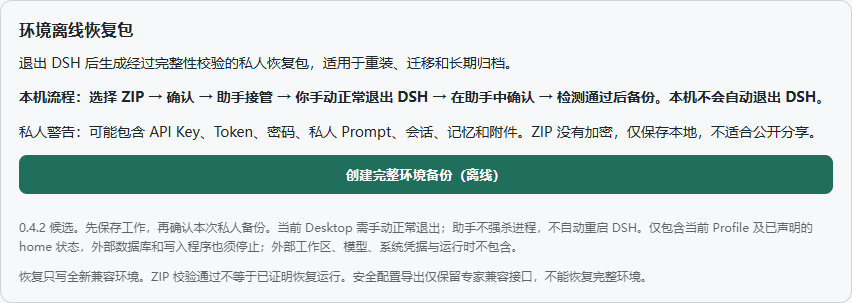
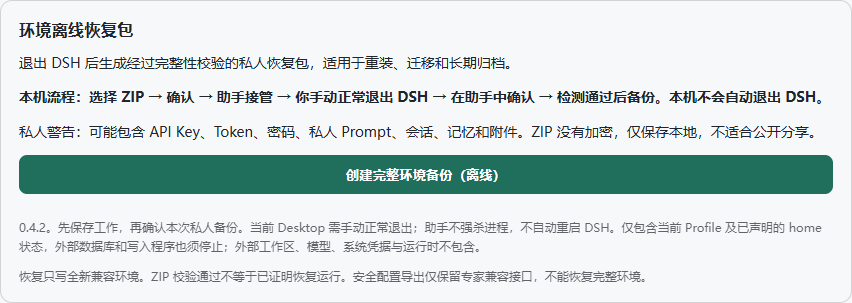
Finalize 0.4.2 release documentation and label

Changed region(s): [[0.0, 0.7129, 0.9765, 0.8317]]

diff --git a/client.js b/client.js
@@ -36,7 +36,7 @@ window.__ModuleLoader__.load({
         h('button',{type:'button',disabled:busy,onClick:()=>go(false),style:{padding:'11px 18px',fontWeight:600,borderRadius:8,background:'#1f6f5c',color:'white',border:0,cursor:busy?'wait':'pointer'}},busy?'正在准备…':'创建完整环境备份（离线）'),
         h('div',{role:'status','aria-live':'polite',style:{whiteSpace:'pre-wrap',overflowWrap:'anywhere',lineHeight:1.6}},message),
         fallback?h('div',null,h('label',null,'原生窗口不可用时的完整 ZIP 路径：',h('input',{value:target,disabled:busy,onChange:e=>setTarget(e.target.value),placeholder:'D:\\Backups\\private.zip',style:{width:'100%',boxSizing:'border-box'}})),h('button',{disabled:busy||!target.trim(),onClick:()=>go(true)},'使用此路径并继续确认')):null,
-        h('p',{style:{margin:0,fontSize:12,opacity:.7,lineHeight:1.6}},'0.4.2 候选。先保存工作，再确认本次私人备份。当前 Desktop 需手动正常退出；助手不强杀进程，不自动重启 DSH。仅包含当前 Profile 及已声明的 home 状态，外部数据库和写入程序也须停止；外部工作区、模型、系统凭据与运行时不包含。'),
+        h('p',{style:{margin:0,fontSize:12,opacity:.7,lineHeight:1.6}},'0.4.2。先保存工作，再确认本次私人备份。当前 Desktop 需手动正常退出；助手不强杀进程，不自动重启 DSH。仅包含当前 Profile 及已声明的 home 状态，外部数据库和写入程序也须停止；外部工作区、模型、系统凭据与运行时不包含。'),
         h('p',{style:{margin:0,fontSize:12,opacity:.7}},'恢复只写全新兼容环境。ZIP 校验通过不等于已证明恢复运行。安全配置导出仅保留专家兼容接口，不能恢复完整环境。')
       );
     }

diff --git a/RELEASE_NOTES.md b/RELEASE_NOTES.md
@@ -1,21 +1,25 @@
-# v0.4.1
+# Environment Packer v0.4.2
 
 ## 中文
 
-Environment Packer 首个审查后的公开源码版本。完整私人 ZIP 与范围很小的安全配置导出分开；私人包可能含凭据、Prompt、会话与记忆，不加密，不适合分享。安全导出不能恢复完整环境。
+以完整离线冷备份为主要流程：选择 ZIP、私人确认、独立助手接管、**用户从菜单/托盘正常退出 DSH**，再点击“我已正常退出，检查后继续”。人工确认不能绕过进程检查；未完全退出、检测不明或超时均不开始。助手显示阶段、活动条和文件数，不自动退出或重启 DSH。
 
-0.4.1 修正无进度回调时返回与落盘恢复计数为 0 的问题，未改变 ZIP 格式、恢复范围、校验或提交逻辑。原生 Save As 由用户在实际 Windows 桌面完成取消、Unicode 路径、已有文件拒绝和安全导出；原生代码未为自动化改写。
+普通热备份 GUI 已移除，POST /create-full 返回 410。保留专家安全导出（不能恢复环境）和离线 CLI。Windows 载荷读锁、持续监测、完整清单/CRC/SHA-256 校验与无覆盖提交保护本地 ZIP。
 
-恢复只写新 DSH_HOME。数据库一致性需停机冷备份。旧 0.3.4 目录/声明格式不兼容。实测 Windows x64 / DSH Desktop 0.2.1-rc.2 / Electron Node 24.21.0 / ABI 149；未验证跨机、真实私人数据库和全部外部依赖。
+私人 ZIP 可能包含 API Key、Token、密码、私人 Prompt、会话、记忆和附件；**不加密，不适合公开分享，不自动上传**。只包含当前 Profile 和声明的 home 范围；外部运行时/工作区/模型、系统凭据及其他 Profile 不完整迁移。GUI 需标准 DSH_HOME/profiles/<name>。恢复只写全新兼容 home。
 
-本公开 tgz 增加许可与公开说明，SHA 与早期未公开的私人候选不同；功能资源相同。请核对本 Release 的 SHA-256。第三方 js-yaml MIT 保留，维护者授权范围和历史来源限制见仓库说明。不发布 npm 或 dsh-market。
+保留 dsh-private-recovery/2，兼容 0.4.0/0.4.1 私人包；0.3.4 旧格式不兼容。已验证 Windows 11 x64 10.0.26300、DSH Desktop 0.2.1-rc.2、Electron Node 24.21.0 / ABI 149。单文件 128 MiB、约 2 GiB 载荷、59,999 项限制。跨机器/真实私人数据库业务恢复、全部外部依赖/杀软/DPI/网络盘未普遍验证。ZIP 校验不等于业务恢复，哈希不是签名。硬退出/断电可能留下私有残留或未确认结果。
+
+发布包更新文档和“候选”显示标识，运行流程及助手/恢复核心与提交 4a797b11c070b53f7eadc1ccbea032155bce65ad 相同。其字节与旧 555e90… 候选不同，请使用本 Release 附带的完整校验值。MIT 授权范围、js-yaml 原作者与许可、PROVENANCE 早期来源披露保留。不发布 npm，不提交 dsh-market。
 
 ## English
 
-First reviewed public snapshot. Full private backup and conservative safe export remain distinct. Private ZIPs may contain credentials, prompts, sessions and memory: they are not encrypted or suitable for public sharing. Safe export cannot restore an environment.
+Complete offline cold backup is now the main workflow: choose a new ZIP, approve private scope, wait for assistant handoff, **manually quit DSH through its menu/tray**, then confirm in the assistant. Confirmation cannot bypass process inspection. Unknown/live writers or timeout stop the job. The independent window displays phases, an activity bar and file counts; it neither quits nor restarts DSH automatically.
 
-0.4.1 fixes callback-free restore counters and the written result report without changing extraction, verification, format or scope. Native Save As passed actual human desktop interactions; production dialog code was not rewritten for automation.
+The ordinary hot-backup GUI is removed and POST /create-full returns 410. Narrow expert safe export cannot restore an environment; the offline CLI remains. Windows source read leases, restart monitoring, manifest/CRC/payload SHA-256 verification and no-replace commit protect the archive.
 
-Restore only into a fresh home; cold backups are required for database consistency. Legacy 0.3.4 formats are incompatible. Tested on Windows x64, DSH Desktop 0.2.1-rc.2 and its Electron Node 24.21.0 / ABI 149. Another machine, real private database restoration and all external dependencies were not tested.
+Private ZIPs may contain credentials, prompts, conversations, memories and attachments. **They are unencrypted, local-only and unsuitable for public sharing.** Scope is the selected standard Profile and declared home entries, not a universal migration of external runtimes, workspaces, models or OS credentials. Restore accepts only a fresh compatible home.
 
-The public package adds licensing/documentation and differs in hash from earlier unpublished candidates while preserving functional resources. Verify this Release's checksum. js-yaml retains its MIT notice; license scope and incomplete historical provenance are documented. No npm or market publication.
+Format recovery/2 remains compatible with 0.4.0/0.4.1; legacy 0.3.4 formats are unsupported. Tested Windows 11 x64 build 10.0.26300, Desktop 0.2.1-rc.2, Electron Node 24.21.0 / ABI 149. Limits: 128 MiB/file, about 2 GiB payload, 59,999 entries. Cross-machine and real private database business restoration are not generally validated. Verification does not prove business operation, and hashes are not signatures. Hard exits can leave private residues or unconfirmed results.
+
+Release packaging updates documentation and the visible candidate label only; backup/assistant/restore behavior matches reviewed commit 4a797b1. The artifact differs from the earlier 555e90… candidate: verify this Release's checksum. Scoped MIT, original js-yaml notices and provenance disclosures remain. No npm or marketplace publication.

diff --git a/README.en.md b/README.en.md
@@ -1,8 +1,8 @@
-# DSH Environment Packer 0.4.2 candidate
+# DSH Environment Packer 0.4.2
 
 [中文](README.md) · [Compatibility](docs/COMPATIBILITY.md) · [Restore](docs/RESTORE.md) · [Provenance](docs/PROVENANCE.md)
 
-A local offline cold-backup tool for infrequent migration, reinstallation and disaster recovery. This is a review candidate, not a published 0.4.2 Release. Production 0.4.1 remains unchanged. It does not promise universal lossless migration.
+A local offline cold-backup tool for infrequent migration, reinstallation and disaster recovery. Download the tgz and SHA-256 file from [v0.4.2](https://github.com/379385796-sys/dsh-environment-packer/releases/tag/v0.4.2), verify it, then use the DSH local plugin installer. It does not promise universal lossless migration.
 
 ## Desktop workflow
 
@@ -16,7 +16,7 @@ The independent window displays waiting, verified exit, scanning, writing, verif
 
 **Private ZIPs can contain API keys, tokens, passwords, private prompts, conversations, memories and attachments. ZIPs are not encrypted and must not be shared publicly.** Local only; no cloud upload. Windows private ACLs are not encryption.
 
-Includes the selected Profile's regular files, plugins, installed dependencies and local packages; package-root installation links are materialized, other/cyclic links fail. Declared home scope: storages, sessions, attachments, memory, skills, AGENTS.md and .credentials.yaml/.yml. Other Profiles, undeclared home entries, external workspaces/models/programs, runtime, OS/browser credentials and original filesystem metadata are excluded. Stop external databases and other writers; external state is not guaranteed to migrate.
+The GUI requires a Profile under the selected DSH_HOME/profiles/<name>; nonstandard external Profiles are refused. Includes the selected Profile's regular files, plugins, installed dependencies and local packages; package-root installation links are materialized, other/cyclic links fail. Declared home scope: storages, sessions, attachments, memory, skills, AGENTS.md and .credentials.yaml/.yml. Other Profiles, undeclared home entries, external workspaces/models/programs, runtime, OS/browser credentials and original filesystem metadata are excluded. Stop external databases and other writers; external state is not guaranteed to migrate.
 
 The assistant conservatively waits for all instances using the Desktop runtime, tracked descendants, processes referencing the source home and known database processes. Private task parameters and payload path requests remain under a protected task directory. Ordinary status contains phases, counts, booleans and controlled error codes. Historical task records under DSH_HOME/.packer-cold are excluded from backups.
 
@@ -30,4 +30,4 @@ dsh-private-recovery/2 is unchanged: 0.4.0/0.4.1 private archives remain compati
 
 Ordinary errors/cooperative cancellation clean the current staging. Hard exits or power loss can leave private temporary files or locks; an atomic ZIP commit can precede its success record. Treat any unacknowledged output as unconfirmed. Preserve and inspect residues; no broad automatic deletion.
 
-Build and isolated candidate installation: [instructions](docs/BUILD-TEST.md). Production upgrade and GitHub Release require separate approval. No npm publication. The scoped MIT grant, js-yaml author/license and historical provenance disclosure remain intact. New assistant sources add no bundled runtime, binary or npm dependency.
+Build and isolated installation: [instructions](docs/BUILD-TEST.md). Before production upgrade, quit normally, back up the plugin and preserve existing Junctions. Never overwrite an entire Profile. No npm publication. The scoped MIT grant, js-yaml author/license and historical provenance disclosure remain intact. New assistant sources add no bundled runtime, binary or npm dependency.

diff --git a/README.md b/README.md
@@ -1,8 +1,8 @@
-# DSH Environment Packer 0.4.2 候选
+# DSH Environment Packer 0.4.2
 
 [English](README.en.md) · [兼容范围](docs/COMPATIBILITY.md) · [恢复](docs/RESTORE.md) · [来源与许可](docs/PROVENANCE.md)
 
-面向重装、迁移和灾难恢复的低频本地离线冷备份工具。当前为供审阅的候选，尚未升级正式 0.4.1，也未发布 0.4.2 Release。不是所有 DSH 环境通用的一键无损迁移器。
+面向重装、迁移和灾难恢复的低频本地离线冷备份工具。从 [v0.4.2 Release](https://github.com/379385796-sys/dsh-environment-packer/releases/tag/v0.4.2) 下载 tgz 和 SHA-256 文件，核对后通过 DSH 本地插件安装功能安装。不是所有 DSH 环境通用的一键无损迁移器。
 
 ## 创建完整环境备份（离线）
 
@@ -22,7 +22,7 @@
 
 **ZIP 可能包含 API Key、Token、密码、私人 Prompt、会话、记忆和附件。ZIP 没有加密，仅本地保存，不适合公开分享。** 不上传云端；不要将 ZIP、配置或任务私有记录附在 issue。
 
-范围：当前 Profile 全部常规文件和目录，包括插件、依赖和本地 tgz；安装包根链接物化，循环或数据链接安全失败。另包含所选 DSH_HOME 的 storages、sessions、attachments、memory、skills、AGENTS.md、.credentials.yaml/.yml（存在时）。清单记录实际范围、逐文件哈希及排除。
+GUI 要求 Profile 位于所选 DSH_HOME/profiles/<name>，非标准外置 Profile 会安全拒绝。范围：当前 Profile 全部常规文件和目录，包括插件、依赖和本地 tgz；安装包根链接物化，循环或数据链接安全失败。另包含所选 DSH_HOME 的 storages、sessions、attachments、memory、skills、AGENTS.md、.credentials.yaml/.yml（存在时）。清单记录实际范围、逐文件哈希及排除。
 
 不包含其他 Profile、未声明的 home 项、外部工作区/模型/程序、系统或浏览器凭据、运行时、原 ACL/所有者/ADS。外部数据库和其他写入程序须正常停止；不保证外部状态被迁移。助手会保守等待同一 Desktop 运行时的所有实例、已跟踪后代、引用源 home 的进程及已知数据库进程。文件读锁失败就停止。
 
@@ -44,8 +44,8 @@ Windows 私人 ACL 仅限当前用户/SYSTEM；这不是加密。任务参数、
 - 第二台机器/VM、真实私人数据库业务恢复、网络盘/OneDrive、所有杀软/DPI/外部依赖未验证。哈希不是签名。
 - 普通失败/协作取消清理本次临时文件；强制结束、断电或系统崩溃可能留私有临时文件/任务锁，也存在 ZIP 原子提交与成功状态写入之间的短窗口。没有明确成功状态的产物一律视为未确认，先保留检查，不能当作完成备份。不会自动删除历史材料。
 
-## 构建、候选安装与许可
+## 构建、安装与许可
 
-见 [构建测试](docs/BUILD-TEST.md) 和 [升级回滚](docs/UPGRADE-ROLLBACK.md)。只安装核对 SHA-256 后的候选 tgz 到隔离测试 Profile；正式升级和 GitHub Release 需要后续明确授权。保持 private:true，不发布 npm。
+见 [构建测试](docs/BUILD-TEST.md) 和 [升级回滚](docs/UPGRADE-ROLLBACK.md)。先在隔离 Profile 验证；正式升级前正常退出 DSH、备份 Packer，并按白名单部署。不要覆盖整个 Profile。保持 private:true，不发布 npm。
 
 维护者可授权的贡献沿用 [MIT](LICENSE)；js-yaml 原作者及 MIT 保留：[第三方声明](THIRD_PARTY_NOTICES.md)。早期来源记录不完整的披露不变；新增助手没有引入 npm/二进制依赖。

diff --git a/docs/COMPATIBILITY.md b/docs/COMPATIBILITY.md
@@ -2,10 +2,10 @@
 
 Validated base: Windows 11 Pro x64 10.0.26300, DSH Desktop 0.2.1-rc.2, its Electron Node 24.21.0 / ABI 149, Windows PowerShell 5.1 / STA WinForms. Matching platform, architecture, exact DSH version, Node major and ABI are required for restoration. The package bundles no runtime and changes no execution policy globally.
 
-Current Desktop has no exposed safe plugin quit API. The candidate deliberately uses manual normal menu/tray exit plus a separate assistant confirmation and mandatory process detection. There is no force-start or forced-termination fallback. Other Desktop instances and known databases may conservatively block a task even when unrelated. Unknown writer handles fail the source read lease; external transaction state outside scope is not claimed.
+Current Desktop has no exposed safe plugin quit API. The plugin deliberately uses manual normal menu/tray exit plus a separate assistant confirmation and mandatory process detection. There is no force-start or forced-termination fallback. Other Desktop instances and known databases may conservatively block a task even when unrelated. Unknown writer handles fail the source read lease; external transaction state outside scope is not claimed.
 
-The 0.4.2 development acceptance includes human-operated actual Desktop Save As/confirmation/manual exit, an independent assistant-generated synthetic ZIP, exact hashes and a fresh-home restore followed by three synthetic plugins plus shared dependency startup/restart. Final UI confirmation additions require their own acceptance evidence; the local final report distinguishes each revision and untested item. Headless component previews are not actual desktop E2E tests.
+The 0.4.2 development acceptance includes human-operated actual Desktop Save As/confirmation/manual exit, an independent assistant-generated synthetic ZIP, exact hashes and a fresh-home restore followed by three synthetic plugins plus shared dependency startup/restart. Manual exit confirmation and process inspection are independent gates; a premature click cannot bypass live writers. Acceptance records distinguish desktop tests from component tests. Headless component previews are not actual desktop E2E tests.
 
 The format remains dsh-private-recovery/2. 0.4.0 and 0.4.1 archives remain supported, including accurate callback/no-callback restore counters. 0.3.4 legacy directories/declaration archives remain incompatible.
 
-Not validated: another physical machine/VM, real private database business restoration, arbitrary plugin dependency graphs, all DSH/Node releases, network/OneDrive targets, every antivirus/ACL/DPI/multi-monitor configuration, power loss at every instruction or every external executable/model/credential. No production 0.4.2 deployment or Release has occurred. Limits and excluded filesystem metadata remain as documented in README.
+Not validated: another physical machine/VM, real private database business restoration, arbitrary plugin dependency graphs, all DSH/Node releases, network/OneDrive targets, every antivirus/ACL/DPI/multi-monitor configuration, power loss at every instruction or every external executable/model/credential. GUI Profiles must be under DSH_HOME/profiles/<name>. Limits and excluded filesystem metadata remain as documented in README.

diff --git a/docs/BUILD-TEST.md b/docs/BUILD-TEST.md
@@ -1,9 +1,9 @@
-# Build and test the 0.4.2 candidate
+# Build and test 0.4.2
 
 No runtime npm installation is required. js-yaml is vendored with its original MIT notice; new helpers use existing Windows, PowerShell, WinForms and Node APIs. No install hooks or downloaded executable are added.
 
 Use Windows and the matching DSH runtime. Explicitly set TEMP, TMP and DSH_PACKER_TEST_ROOT to an existing scratch directory before tests; never point them at a real Profile. Run tests/smoke.mjs, tests/cold-safety.mjs and tests/cold-component.mjs. The component test opens synthetic assistant windows and checks handoff, premature confirmation, timeout, cancellation, privacy and ACLs; it does not substitute for actual Desktop interaction. Tests/legacy-private-acceptance.mjs contains the broader synthetic integrity/recovery regression. tests/cold-parent.mjs is a subprocess fixture, not an entry point for ordinary use.
 
-Build with npm pack --ignore-scripts --pack-destination <OUTPUT_DIRECTORY>. Keep the exact tgz SHA-256 alongside it. Inspect the archive's actual whitelist, license files and unpacked bytes, then run smoke/safety tests against the extracted code. private:true intentionally prevents npm publish. Candidates and the published 0.4.1 artifact have different hashes; never overwrite the existing Release.
+Build with npm pack --ignore-scripts --pack-destination <OUTPUT_DIRECTORY>. Keep the exact tgz SHA-256 alongside it. Inspect the archive's actual whitelist, license files and unpacked bytes, then run smoke/safety tests against the extracted code. private:true intentionally prevents npm publish. Use the checksum of the exact Release artifact. The published 0.4.1 artifact and earlier 0.4.2 candidates have different hashes; never overwrite an existing Release.
 
 Required desktop acceptance: real isolated DSH button → native Save As → native private confirmation → independent assistant handoff → normal manual quit → assistant exit-confirmation button → detected quiescence → verified ZIP → fresh-home restoration → host business startup/restart. Verify both cancellation points, premature confirmation/live writers, duplicates, timeout, existing output, Unicode paths, permission failure, interruption and helper launch failure. Record fault injection and manual checks separately. Do not infer visible progress-window acceptance from a ready file alone.

diff --git a/docs/UPGRADE-ROLLBACK.md b/docs/UPGRADE-ROLLBACK.md
@@ -1,8 +1,8 @@
-# Upgrade and rollback — candidate only
+# Upgrade and rollback
 
-0.4.2 is prepared for review, not authorized for production installation or GitHub Release in this task. Formal 0.4.1 and its Junction target remain unchanged. Do not overwrite the existing public 0.4.1 Release.
+Use the exact reviewed v0.4.2 artifact and checksum. Preserve the prior 0.4.1 source, installation list and rollback materials. Never overwrite the existing public 0.4.1 Release.
 
-After separate authorization: normally exit DSH completely, verify installed 0.4.1, Junction target and file hashes against the recorded baseline, back up plugin source/history and installation records with private ACLs, and verify the exact approved 0.4.2 tgz checksum. Stop on any conflict. Preserve the Junction and deploy only the reviewed file list; never overwrite a whole Profile or resolve unrelated plugins.
+Normally exit DSH completely, verify installed 0.4.1, Junction target and file hashes against the recorded baseline, back up plugin source/history and installation records with private ACLs, and verify the exact approved 0.4.2 tgz checksum. Stop on any conflict. Preserve the Junction and deploy only the reviewed file list; never overwrite a whole Profile or resolve unrelated plugins.
 
 GUI behavior changes: running full backup removed, retired /create-full returns 410, manual normal exit and assistant confirmation/process detection are mandatory. Existing plugin config is not migrated or rewritten. Safe export remains an expert compatibility endpoint, outside the main GUI. Verify cold-only UI, cancellation, handoff, strict exit gate, native path handling and a synthetic restore before any real private backup.
 

diff --git a/CHANGELOG.md b/CHANGELOG.md
@@ -1,12 +1,12 @@
 # Changelog
 
-## 0.4.2 — candidate, 2026-10-24
+## 0.4.2 — 2026-10-24
 
 - Replace ordinary hot-backup GUI with one offline cold-backup operation; retire /create-full with HTTP 410.
 - Add independent Windows assistant, acknowledged handoff, private task lock, stage/activity window and explicit manual-exit confirmation. Confirmation never bypasses writer inspection.
 - Require known writers to stop, hold Windows payload read leases, monitor for restarts and check again before no-replace ZIP commit.
 - Reuse recovery/2 and unchanged trusted restore; add streamed archive SHA and cleanup-failure rollback. Keep expert safe export and offline CLI; CLI adds writer checks.
-- Production upgrade and GitHub publication are pending separate authorization.
+- Preserve the tested manual normal-exit workflow; publication updates documentation and the visible release label only.
 
 ## 0.4.1 — 2026-10-24
 

diff --git a/DESIGN.md b/DESIGN.md
@@ -1,4 +1,4 @@
-# Cold-backup design, 0.4.2 candidate
+# Cold-backup design, 0.4.2
 
 The sole ordinary GUI operation selects a ZIP, obtains native per-task confirmation and starts a short Windows PowerShell bootstrap. It uses Start-Process to create the independent WinForms assistant without shared DSH pipes or IPC. A private UUID task, exclusive per-home lock and ready/accepted handshake must complete before the UI advises quitting. A direct Node detached PowerShell 5.1 launch silently exited in local probing; it is not used.
 
